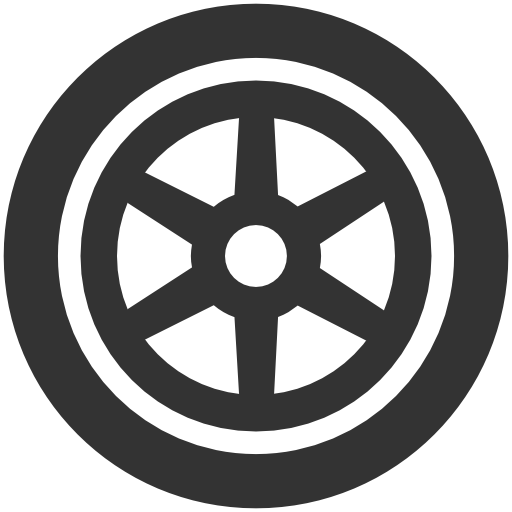
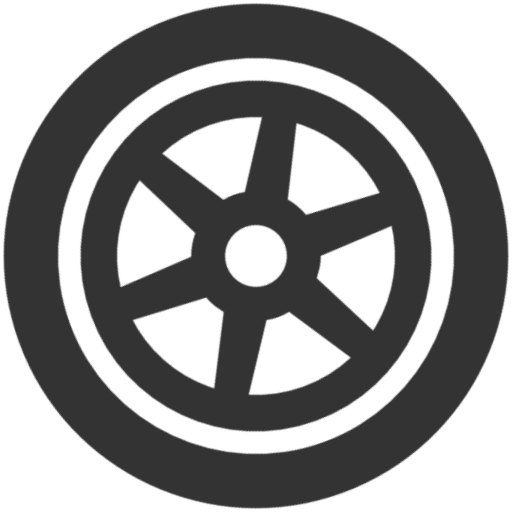
add content to index, add autoRotate to wheels, add second Animation with the clouds

Changed region(s): [[0.2188, 0.2188, 0.7812, 0.7812]]

diff --git a/magic.js b/magic.js
@@ -1,3 +1,15 @@
+var wheelNumber = 1;
+
+var autoRotate = false;
+
+var animationInterval;
+var cloudInterval;
+
+function loadScene() {
+	moveClouds();
+	loadWheel("wheelRed1.png");
+}
+
 function loadWheel(filename) {
 	var imageObj = new Image();
 	imageObj.onload = function() {
@@ -7,4 +19,64 @@ function loadWheel(filename) {
 		wheelFront.setAttribute('src', this.src);
 	};
 	imageObj.src = "pics/" + filename;
+}
+
+window.onkeydown = function(event) {
+	var key = event.which || event.keyCode;
+	var keyString = String.fromCharCode(key);
+	switch (keyString) {
+		case ('R'):
+			autoRotate = false;
+			stopRotateWheel();
+			rotateWheel(1);
+			break;
+		case ('L'):
+			autoRotate = false;
+			stopRotateWheel();
+			rotateWheel(-1);
+			break;
+		case ('A'):
+			if (!autoRotate)  {
+				autoRotate = true;
+				rotateWheelAutomatic();
+			}
+			break;
+		case ('S'):
+			autoRotate = false;
+			stopRotateWheel();
+			break;
+	}
+}
+
+function rotateWheel(tmp) {
+	wheelNumber += tmp;
+	if (wheelNumber > 18) wheelNumber = 1;
+	if (wheelNumber < 1) wheelNumber = 18;
+
+	var wheelBack = document.getElementById('wheelBack');
+	var wheelFront = document.getElementById('wheelFront');
+	wheelBack.setAttribute('src', 'pics/WheelRed' + wheelNumber + '.png');
+	wheelFront.setAttribute('src', 'pics/WheelRed' + wheelNumber + '.png');
+}
+
+function rotateWheelAutomatic() {
+	animationInterval = setInterval(rotateWheel, 100, 1);
+}
+
+function stopRotateWheel() {
+	clearInterval(animationInterval);
+}
+
+function moveClouds() {
+	var cloud = document.getElementById('clouds');
+	var pos = -500;
+	clearInterval(cloudInterval);
+	cloudInterval = setInterval(frame, 10);
+	function frame() {
+		if (pos == 1500) pos = -500;
+		else {
+			pos++;
+			cloud.style.left = pos + 'px';
+		}
+	}
 }

diff --git a/index.html b/index.html
@@ -3,10 +3,24 @@
 	<head>
 		<script src="magic.js"></script>
 		<link rel="stylesheet" href="style.css">
+		
+		<title>EA 1 - Interaktiv animierte Scheibe</title>
 	</head>
-	<body onload=loadWheel("wheel.png")>
+	<body onload=loadScene()>
 		<img id="car" src="pics/car.png" alt="Ein wunderschoenes Auto">
 		<img id="wheelBack">
 		<img id="wheelFront">
+		<img id="light" src="pics/light.png">
+		<img id="clouds" src="pics/clouds.png">
+		
+		<h1 id="headline">EA 1 - Interaktiv animierte Scheibe</h1>
+		
+		<ul id="manual">
+			<h2>Steuerung</h5>
+			<p><b>R:</b> Faehrt das Fahrzeug vorwaerts</p>
+			<p><b>L:</b> Faehrt das Fahrzeug rueckwaerts</p>
+			<p><b>A:</b> Der Autopilot uebernimmt das fahren</p>
+			<p><b>S:</b> Bringt das Fahrzeug zum Stillstand</p>
+		</ul>
 	</body>
 </html>

diff --git a/style.css b/style.css
@@ -21,3 +21,31 @@
 	top: 630px;
 	left:830px;
 }
+
+#light {
+	height: 400px;
+	width: 400px;
+	position: absolute;
+	top: 300px;
+	left:900px;	
+}
+
+#clouds {
+	height: 450px;
+	width: 450px;
+	position: absolute;
+	top: 1px;
+	left: -500px;		
+}
+
+#headline {
+	position:absolute;
+	top:10px;
+}
+
+#manual {
+	position:absolute;
+	top:800px;
+	left:100px;
+	font-size: 150%;
+}
